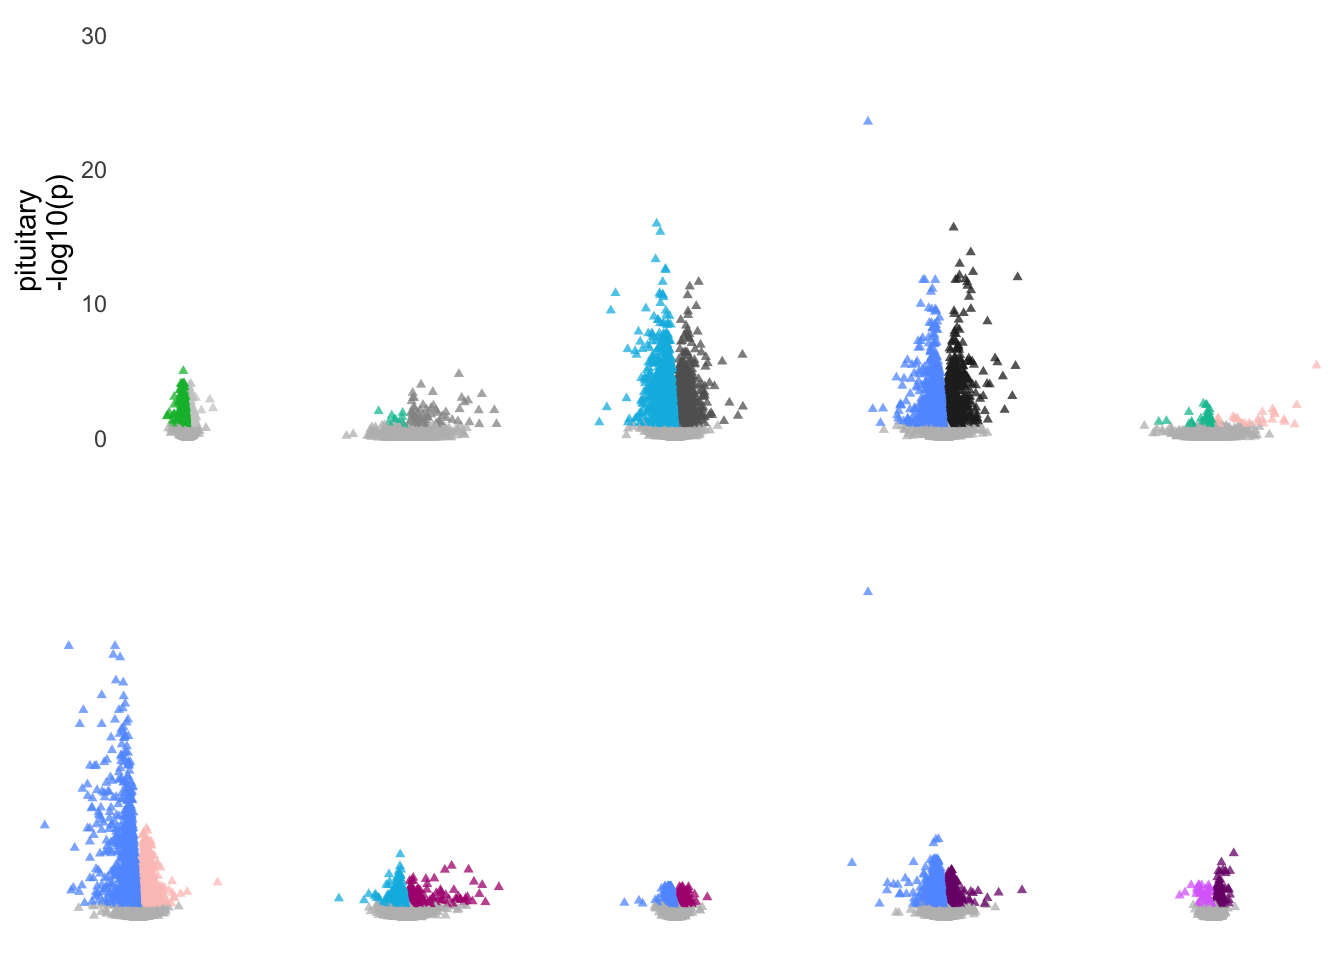
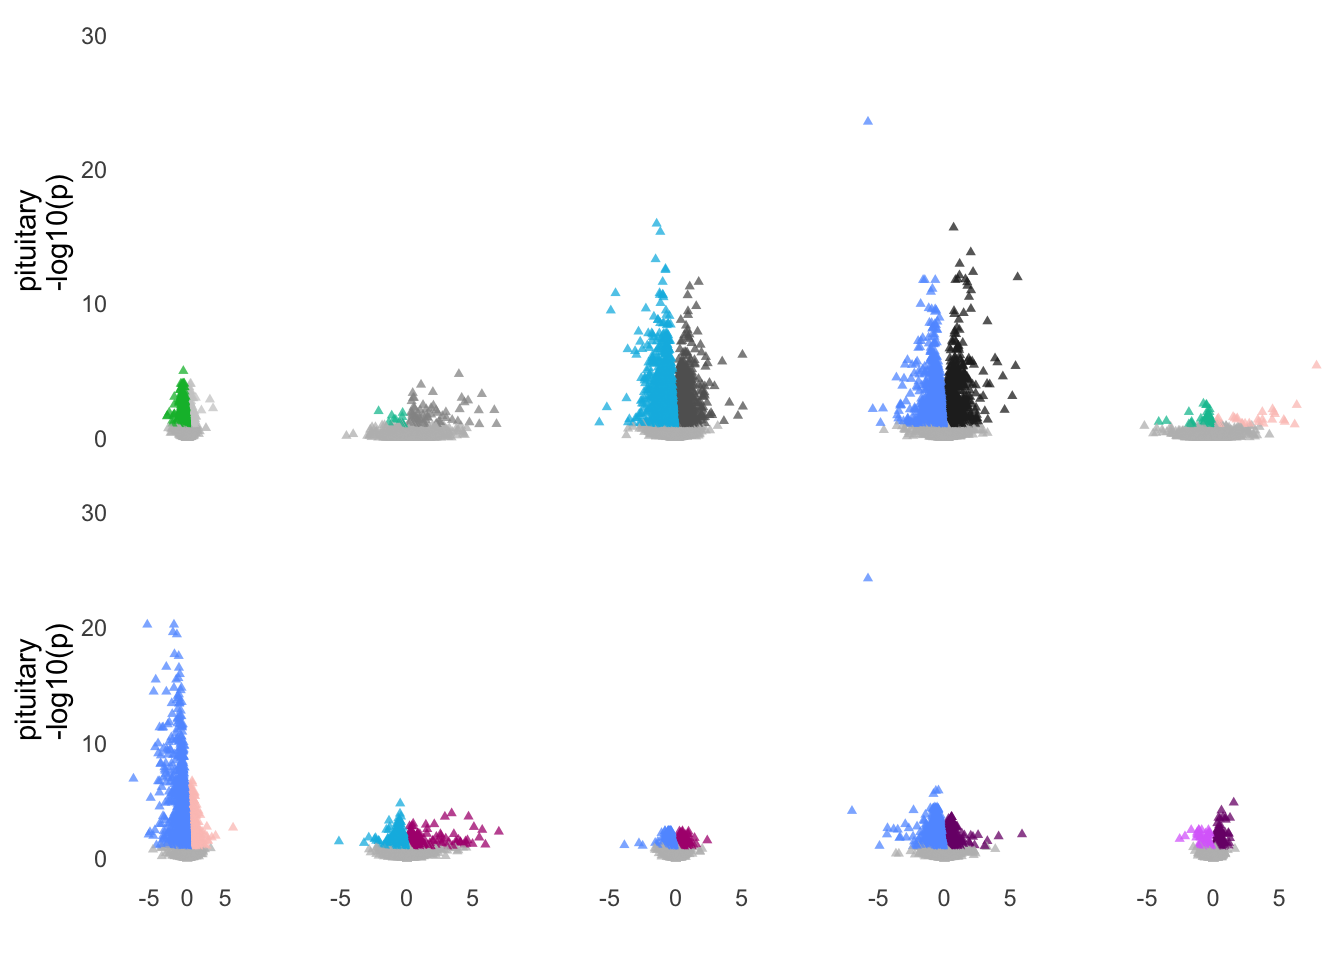
now with manip volcanos

diff --git a/analysis/09_manipvolcanos.md b/analysis/09_manipvolcanos.md
@@ -1,0 +1,106 @@
+    library(tidyverse)
+
+    ## ── Attaching packages ────────────────────────────────────────────────────────────────────────────────────── tidyverse 1.3.0 ──
+
+    ## ✔ ggplot2 3.2.1     ✔ purrr   0.3.3
+    ## ✔ tibble  2.1.3     ✔ dplyr   0.8.3
+    ## ✔ tidyr   1.0.0     ✔ stringr 1.4.0
+    ## ✔ readr   1.3.1     ✔ forcats 0.4.0
+
+    ## ── Conflicts ───────────────────────────────────────────────────────────────────────────────────────── tidyverse_conflicts() ──
+    ## ✖ dplyr::filter() masks stats::filter()
+    ## ✖ dplyr::lag()    masks stats::lag()
+
+    library(cowplot)
+
+    ## 
+    ## Attaching package: 'cowplot'
+
+    ## The following object is masked from 'package:ggplot2':
+    ## 
+    ##     ggsave
+
+    source("../R/functions.R")  # load custom functions 
+    source("../R/themes.R")  # load custom themes and color palletes
+    source("../R/icons.R")  # for images
+
+    ## Warning: Column `icons` joining factor and character vector, coercing into
+    ## character vector
+
+    knitr::opts_chunk$set(fig.path = '../figures/manipulation/',message=F, warning=FALSE)
+
+    inc.d3.m.inc.d3 <- read_csv("../results/DESeqAll.pituitary.inc.d3.m.inc.d3.csv")
+    inc.d9.m.inc.d9 <- read_csv("../results/04_DEGs.pituitary.m.inc.d3.m.inc.d9.csv")
+    inc.d17.m.inc.d17 <- read_csv("../results/DESeqAll.pituitary.inc.d17.m.inc.d17.csv")
+    hatch.m.n2 <- read_csv("../results/DESeqAll.pituitary.hatch.m.n2.csv")
+    inc.d9.m.inc.d8 <- read_csv("../results/DESeqAll.pituitary.inc.d9.m.inc.d8.csv")
+    hatch.m.inc.d8 <- read_csv("../results/DESeqAll.pituitary.hatch.m.inc.d8.csv")
+    inc.d17.prolong <- read_csv("../results/DESeqAll.pituitary.inc.d17.prolong.csv")
+    hatch.prolong <- read_csv("../results/DESeqAll.pituitary.hatch.prolong.csv")
+    hatch.extend <- read_csv("../results/DESeqAll.pituitary.hatch.extend.csv")
+    n5.extend <- read_csv("../results/DESeqAll.pituitary.n5.extend.csv")
+
+    a <- plot.volcano(inc.d3.m.inc.d3 , "treatment",   "m.inc.d3", "inc.d3",   colorsvolcano) + 
+      annotation_custom(lay, ymin = 20, ymax = 30, xmin = -8, xmax = -2) + 
+      annotation_custom(control, ymin = 20, ymax = 30, xmin = 2, xmax = 8) 
+    b <- plot.volcano(inc.d9.m.inc.d9, "treatment",  "m.inc.d9", "inc.d9" , colorsvolcano)+ 
+      annotation_custom(inc, ymin = 20, ymax = 30, xmin = -8, xmax = -2) + 
+      annotation_custom(control, ymin = 20, ymax = 30, xmin = 2, xmax = 8) 
+    c <- plot.volcano(inc.d17.m.inc.d17 , "treatment",  "m.inc.d17", "inc.d17" , colorsvolcano) + 
+      annotation_custom(inc, ymin = 20, ymax = 30, xmin = -8, xmax = -2) + 
+      annotation_custom(control, ymin = 20, ymax = 30, xmin = 2, xmax = 8) 
+    d <- plot.volcano(hatch.m.n2 , "treatment",   "m.n2", "hatch", colorsvolcano) + 
+      annotation_custom(hatch, ymin = 20, ymax = 30, xmin = -8, xmax = -2) + 
+      annotation_custom(control, ymin = 20, ymax = 30, xmin = 2, xmax = 8) 
+
+
+    e <- plot.volcano(inc.d9.m.inc.d8 , "treatment",   "m.inc.d8", "inc.d9"  , colorsvolcano)  +
+      annotation_custom(inc, ymin = 20, ymax = 30, xmin = -8, xmax = -2) + 
+      annotation_custom(hatch, ymin = 20, ymax = 30, xmin = 2, xmax = 8) 
+    f <- plot.volcano(inc.d17.prolong , "treatment",   "prolong", "inc.d17",  colorsvolcano)  +
+      annotation_custom(inc, ymin = 20, ymax = 30, xmin = -8, xmax = -2) + 
+      annotation_custom(inc, ymin = 20, ymax = 30, xmin = 2, xmax = 8) 
+    g <- plot.volcano(hatch.prolong , "treatment",  "prolong", "hatch", colorsvolcano)  +
+      annotation_custom(hatch, ymin = 20, ymax = 30, xmin = -8, xmax = -2) + 
+      annotation_custom(inc, ymin = 20, ymax = 30, xmin = 2, xmax = 8) 
+
+
+    h <- plot.volcano(hatch.m.inc.d8 , "treatment",    "m.inc.d8", "hatch"  , colorsvolcano)  +
+      annotation_custom(hatch, ymin = 20, ymax = 30, xmin = -8, xmax = -2) + 
+      annotation_custom(hatch, ymin = 20, ymax = 30, xmin = 2, xmax = 8) 
+    i <- plot.volcano(hatch.extend , "treatment",  "extend", "hatch" , colorsvolcano)  +
+      annotation_custom(hatch, ymin = 20, ymax = 30, xmin = -8, xmax = 2) + 
+      annotation_custom(hatch, ymin = 20, ymax = 30, xmin = 2, xmax = 8) 
+    j <- plot.volcano(n5.extend , "treatment",  "extend", "n5", colorsvolcano)  +
+      annotation_custom(hatch, ymin = 20, ymax = 30, xmin = -8, xmax = -2) + 
+      annotation_custom(nestling, ymin = 20, ymax = 30, xmin = 2, xmax = 8) 
+
+
+
+    remove <- plot_grid(a +  theme(axis.title.x = element_blank(), axis.text.x = element_blank()) +
+                           labs(y = "pituitary \n -log10(p)", subtitle = "1771 DEGs"),
+              b + theme(axis.title = element_blank(), axis.text = element_blank()) + labs(subtitle = "277 DEGs"),
+              c + theme(axis.title = element_blank(), axis.text = element_blank()) + labs(subtitle = "3909 DEGs"),
+              d + theme(axis.title = element_blank(), axis.text = element_blank()) + labs(subtitle = "3162 DEGs"), 
+              nrow = 1, rel_widths = c(1.2,1,1,1),
+              labels = c("a","b","c","d"), label_size = 9)
+    remove
+
+![](../figures/manipulation/volcanos-1.png)
+
+    manipinc <- plot_grid(e +  theme(axis.title.x = element_blank(), axis.text.x = element_blank()) +
+                           labs(y = "pituitary \n -log10(p)", subtitle = "120 DEGs"),
+              f + theme(axis.title = element_blank(), axis.text = element_blank()) + labs(subtitle = "1007 DEGs"),
+              g + theme(axis.title = element_blank(), axis.text = element_blank()) + labs(subtitle = "731 DEGs"),
+              nrow = 1, rel_widths = c(1.2,1,1),
+              labels = c("e","f","g"," "), label_size = 9)
+
+    maniphatch <- plot_grid( h +  labs(subtitle = "4113 DEGs"), 
+              i + theme(axis.title.y = element_blank(), axis.text.y = element_blank()) + labs(subtitle = "1894 DEGs"), 
+              j + theme(axis.title.y = element_blank(), axis.text.y = element_blank()) + labs(subtitle = "256 DEGs"), 
+              nrow = 1, rel_widths = c(1.2,1,1),
+              labels = c("h","i","j"," "), label_size = 9)
+
+    plot_grid(manipinc, maniphatch, nrow = 2)
+
+![](../figures/manipulation/volcanos-2.png)
